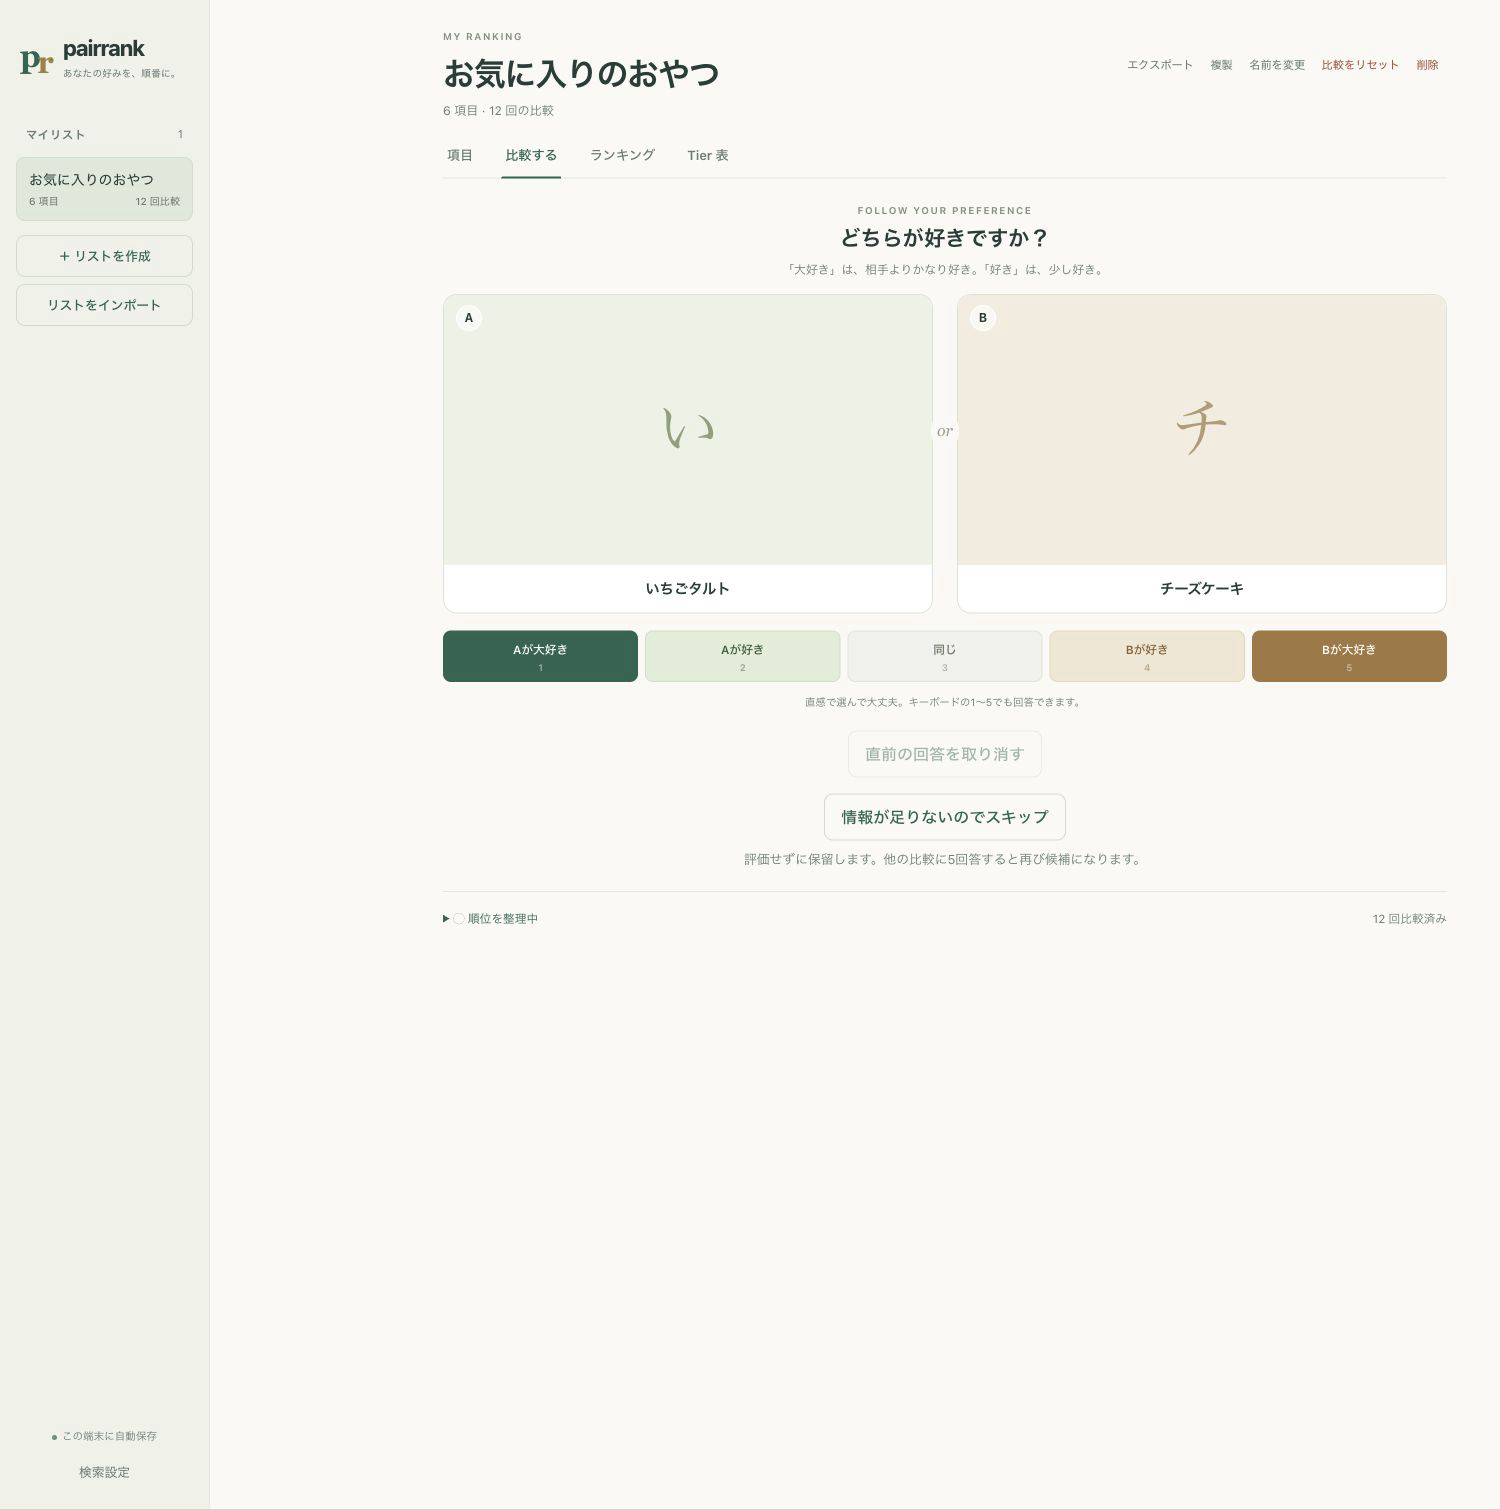
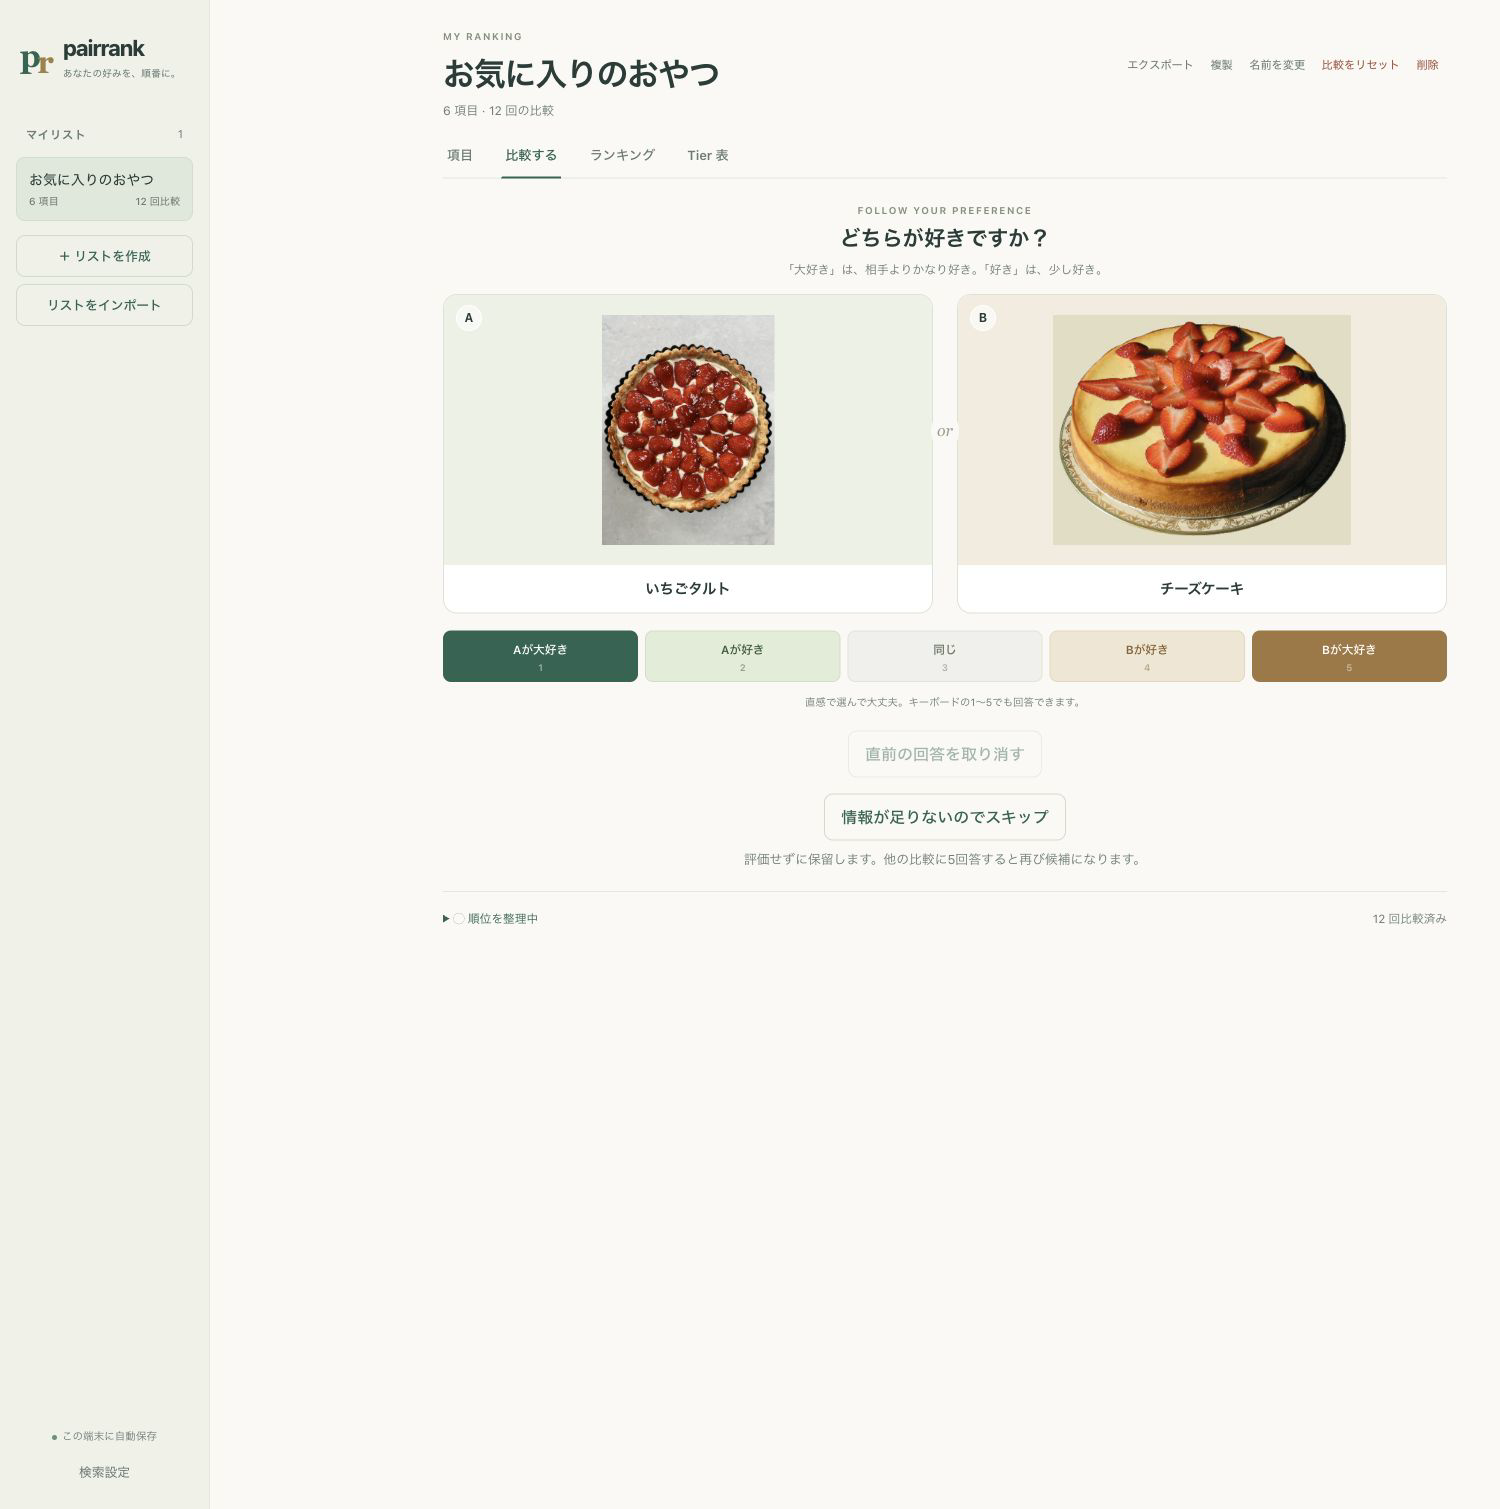
docs: show licensed dessert photos in README screenshots

Changed region(s): [[0.7053, 0.1869, 0.92, 0.3738], [0.3987, 0.1869, 0.5213, 0.3738]]

diff --git a/docs/screenshots/sample.ts b/docs/screenshots/sample.ts
@@ -7,9 +7,36 @@ const names = [
   "いちごタルト",
   "チーズケーキ",
   "プリン",
-  "抹茶パフェ",
+  "抹茶アイス",
   "アップルパイ",
   "チョコアイス",
+];
+const images = [
+  {
+    path: "/docs/screenshots/assets/strawberry-tart.jpg",
+    sourceUrl: "https://commons.wikimedia.org/wiki/File:Strawberry_tart,_June_2025_UK.jpg",
+  },
+  {
+    path: "/docs/screenshots/assets/cheesecake.jpg",
+    sourceUrl: "https://commons.wikimedia.org/wiki/File:New_york_cheesecake_with_strawberries.jpg",
+  },
+  {
+    path: "/docs/screenshots/assets/pudding.jpg",
+    sourceUrl: "https://commons.wikimedia.org/wiki/File:Putchin_Pudding_001.jpg",
+  },
+  {
+    path: "/docs/screenshots/assets/matcha-ice-cream.jpg",
+    sourceUrl: "https://commons.wikimedia.org/wiki/File:Handmade_Matcha_ice_cream_-_Rawlab.jpg",
+  },
+  {
+    path: "/docs/screenshots/assets/apple-pie.jpg",
+    sourceUrl: "https://commons.wikimedia.org/wiki/File:Fruit_Pie.jpg",
+  },
+  {
+    path: "/docs/screenshots/assets/chocolate-ice-cream.jpg",
+    sourceUrl:
+      "https://commons.wikimedia.org/wiki/File:Dark_chocolate_chip_ice_cream_cone_-_August_2025_-_Sarah_Stierch_(cropped).jpg",
+  },
 ];
 const list: ListState = {
   id: 1,
@@ -20,7 +47,7 @@ const list: ListState = {
     id: index + 1,
     listId: 1,
     name,
-    image: null,
+    image: images[index]!,
     rating: { mu: 34 - index * 3, sigma: 3.5 },
     comparisonCount: 4,
     tagIds: [index < 2 || index === 4 ? 1 : 2],

diff --git a/docs/screenshots/assets/CREDITS.md b/docs/screenshots/assets/CREDITS.md
@@ -1,0 +1,18 @@
+# 撮影用デザート写真の出典
+
+README のスクリーンショットと撮影フィクスチャだけに使う写真です。アプリ本体には同梱しません。以下は Wikimedia Commons の各ファイル説明ページでライセンスを確認したものです（確認日: 2026-11-06）。
+
+| ローカルファイル          | 表示名       | 著者                                         | 出典                                                                                                                                                                                                   | ライセンス                                                    |
+| ------------------------- | ------------ | -------------------------------------------- | ------------------------------------------------------------------------------------------------------------------------------------------------------------------------------------------------------ | ------------------------------------------------------------- |
+| `strawberry-tart.jpg`     | いちごタルト | Beth Suitable                                | [Strawberry tart, June 2025 UK](https://commons.wikimedia.org/wiki/File:Strawberry_tart,_June_2025_UK.jpg)                                                                                             | [CC0 1.0](https://creativecommons.org/publicdomain/zero/1.0/) |
+| `cheesecake.jpg`          | チーズケーキ | Alcinoe                                      | [New york cheesecake with strawberries](https://commons.wikimedia.org/wiki/File:New_york_cheesecake_with_strawberries.jpg)                                                                             | 著作者によるパブリックドメインへの提供（出典ページ参照）      |
+| `pudding.jpg`             | プリン       | Ocdp                                         | [Putchin Pudding 001](https://commons.wikimedia.org/wiki/File:Putchin_Pudding_001.jpg)                                                                                                                 | [CC0 1.0](https://creativecommons.org/publicdomain/zero/1.0/) |
+| `matcha-ice-cream.jpg`    | 抹茶アイス   | Andy Li (Onthewings)                         | [Handmade Matcha ice cream - Rawlab](https://commons.wikimedia.org/wiki/File:Handmade_Matcha_ice_cream_-_Rawlab.jpg)                                                                                   | [CC0 1.0](https://creativecommons.org/publicdomain/zero/1.0/) |
+| `apple-pie.jpg`           | アップルパイ | Lisafern                                     | [Fruit Pie](https://commons.wikimedia.org/wiki/File:Fruit_Pie.jpg)                                                                                                                                     | [CC0 1.0](https://creativecommons.org/publicdomain/zero/1.0/) |
+| `chocolate-ice-cream.jpg` | チョコアイス | Sarah Stierch (Missvain)、切り抜き: Whonting | [Dark chocolate chip ice cream cone - August 2025 - Sarah Stierch (cropped)](<https://commons.wikimedia.org/wiki/File:Dark_chocolate_chip_ice_cream_cone_-_August_2025_-_Sarah_Stierch_(cropped).jpg>) | [CC0 1.0](https://creativecommons.org/publicdomain/zero/1.0/) |
+
+## ローカルでの調整と画面内の表示
+
+長辺が最大800ピクセルになるよう縮小し、JPEGとして再圧縮しました。抹茶アイスは元画像の向きに合わせて回転を反映し、EXIF・IPTC・コメントのメタデータは除去しています。写真の内容の合成・生成・描き直しはしていません。チョコアイスは出典側で切り抜かれた版を使用しています。
+
+画面内では製品の通常の画像表示に従って、縦横比を保って枠内に収まるよう表示されます。上記の写真の権利状態は、それらを含む `docs/images/` のスクリーンショット内でも同じです。アプリ本体やスクリーンショット全体をCC0とする記載ではありません。写真の著者・店舗・製品が本アプリを推奨していることを意味しません。

diff --git a/docs/screenshots.md b/docs/screenshots.md
@@ -2,7 +2,7 @@
 
 README の画像は、`docs/screenshots/sample.ts` の架空の「お気に入りのおやつ」を、現行の `src/lib/view.ts` と `src/styles.css` で表示した画面です。UIを描き直したモック画像ではありません。評価値・比較回数は撮影専用の固定サンプルで、実際の比較結果を示すものではありません。
 
-データベースや画像検索、資格情報ストアへはアクセスしません。画像ファイルは登録せず、製品の頭文字プレースホルダーを表示します。個人情報・認証情報・他者の画像は含めません。
+データベースや画像検索、資格情報ストアへはアクセスしません。画像は `docs/screenshots/assets/` に同梱した再利用可能なデザート写真を読み込みます。撮影時に外部サイトへの画像リクエストは行いません。利用者の個人情報・認証情報・私物の写真は含めません。写真の出典とライセンスは [画像クレジット](screenshots/assets/CREDITS.md) に記録しています。
 
 ## 撮影手順
 
